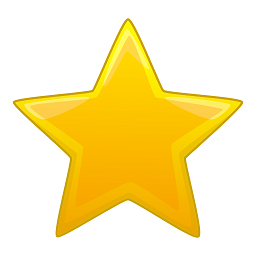
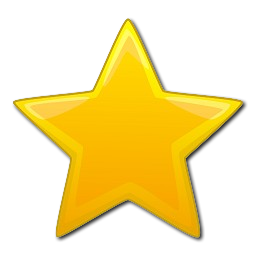
Correciones
Cambio imagen de fondo y medidas a rem. Modifico icono sin fondo

diff --git a/index.html b/index.html
@@ -12,7 +12,7 @@
                                   <!--Logo y Titulo-->
     <header class="estado">
         <div class="logo">
-                <img src="/assets/img.jpg/logo.div.png" width=200px height=auto alt="alusion de marca">
+                <img src="/assets/img.jpg/logo.div.png" width="200rem" height=auto alt="alusion de marca">
         </div>
                                   <!--menu-->
             <nav>
@@ -36,29 +36,29 @@
                         <li><a href="">Transferencia Modalidad Directa</a></li>
                         <p>Para esta transación el solicitante (la persona) debe contar con una cuenta bancaria en la entidad financiera (Banco), de modo que este se encargue de la solicitud utilizando la plataforma Divisas para su gestión hacia el Banco escogido como destino. A su vez, el beneficiario (quien recibe) debe poseer una cuenta bancaria a la cual dirigir los fondos destinados.</p><br>
                         <p>Si desea realizar <strong>esta</strong> solicitud: <button><a href="/html/registro.html">Inicie Sesión</button></a></p>
-                        <img class="first" src="/assets/iconos.png/banco a banco.png" width="100px" height="auto" alt=""> <p class="disco"><strong> Costo de la operación: 6% del monto enviado.</strong></p>
+                        <img class="first" src="/assets/iconos.png/banco a banco.png" width="6.25rem" height="auto" alt=""> <p class="disco"><strong> Costo de la operación: 6% del monto enviado.</strong></p>
                     </div>
                         <div class="metodo2">
                         <li><a href="">Trasferencia Modalidad Indirecta</a></li>
                         <p>Es aquella modalidad en la que el destinatario posee una cuenta bancaria en alguna institución financiera, de modo que este procesa la solicitud a través de la plataforma Divisas hacia un Banco escogido en el que el beneficiario (quien recibe) NO posee cuenta bancaria. Para este caso se procesará una Cuenta Express creada para el momento de la transación, ante la cual dicho beneficiario debe presentar documentación, código de la Cuenta Express, correo enviado por el Banco y presentarse a la hora y día pactado para efectuarla. </p>
                         <p>Si desea realizar <strong>esta</strong> solicitud: <button><a href="/html/registro.html">Inicie Sesión</button></a></p>
-                        <img class="first" src="/assets/iconos.png/mod. indirecta.png" width="100px" height="auto" alt=""><p class="disco"><strong>Costo de la operación: 7% del monto enviado.</strong></p>
+                        <img class="first" src="/assets/iconos.png/mod. indirecta.png" width="6.25rem" height="auto" alt=""><p class="disco"><strong>Costo de la operación: 7% del monto enviado.</strong></p>
                         </div>
                         <div class="metodo3">
                             <li><a href="">Transferencia Modalidad Solicitante Directa</a></li>
                             <p>Es aplicable para aquellos casos en el que el solicitante (quien envía) no posee cuenta bancaria y el beneficiario (quien recibe) si. Para lo cual la entidad Bancaria escogida realizará la solicitud a través de nuestra plataforma Divisas con la entidad a la que está vinculada el beneficiario. </p>
                             <p>Si desa realizar <strong>esta</strong> solicitud: <button><a href="/html/registro.html">Inicie Sesión</button></a></p>
-                            <img class="first" src="/assets/iconos.png/mod. directa.png" width="100px" height="auto" alt=""><p class="disco"><strong>Costo de la operación: 7% del monto enviado.</strong></p>
+                            <img class="first" src="/assets/iconos.png/mod. directa.png" width="6.25rem" height="auto" alt=""><p class="disco"><strong>Costo de la operación: 7% del monto enviado.</strong></p>
                         </div>
                             <div class="metodo4">
                                 <li><a href="">Transferencia Modalidad Solicitante Indirecta</a></li>
                                 <p>El caso de esta modalidad es aplicable cuando los dos relacionados (quien envía y quien recibe) no poseen cuenta bancaria. Por lo cual el Banco escogido procesará la transación a través de la plataforma Divisas hacia el Banco que mejor convenga para el destinatario, todo esto por medio de una Cuenta Express en la que ambos recibiran información sobre el código de la Cuenta Express, correo electrónico de parte del banco y los datos sobre la hora y el día en el que se debe acudir al banco para su retiro. </p>
                                 <p>Si desea realizar <strong>esta</strong> solicitud: <button><a href="/html/registro.html">Inicie Sesión</button></a></p>
-                                <img class="first" src="/assets/iconos.png/solic. indirecta.png" width="100px" height="auto" alt=""><p class="disco"><strong>Costo de la operación 10% del monto enviado.</strong></p>
+                                <img class="first" src="/assets/iconos.png/solic. indirecta.png" width="6.25rem" height="auto" alt=""><p class="disco"><strong>Costo de la operación 10% del monto enviado.</strong></p>
                             </div>
                     </ul>
                         <div class="ventana" id="vent">
-                            <div id="cerrart"> <a href="javascript:cerrart()"><img src="/assets/iconos.png/marca-x.png" width="20px" height="auto" alt=""></a></div>
+                            <div id="cerrart"> <a href="javascript:cerrart()"><img src="/assets/iconos.png/marca-x.png" width="20rem" height="auto" alt=""></a></div>
                         </div>
                 </div>
             </section>
@@ -70,29 +70,29 @@
                         <li><a href="">Depósito Modalidad Mutua</a></li>
                         <p>Esta modalidad abarca el caso en el que ambas personas (quien envía y quien recibe) NO poseen cuenta bancaria, para lo cual se procederá a crear una Cuenta Express (expirable) cuyos datos como lo son el código de cuenta, correo enviado por el banco y datos del día y hora de vigencia les serán suministardos a ambas personas. En el caso de quien recibe debe presentar documentación que lo acredite como Beneficiario.</p>
                         <p>Si desea realizar <strong>esta</strong> solicitud: <button><a href="/html/registro.html">Inicie Sesión</button></a></p>
-                        <img class="second" src="/assets/iconos.png/dep. mutuo.png" width="100px" height="auto" alt=""><p class="disco"><strong>Costo de la operación: 10% del monto enviado.</strong></p>
+                        <img class="second" src="/assets/iconos.png/dep. mutuo.png" width="6.25rem" height="auto" alt=""><p class="disco"><strong>Costo de la operación: 10% del monto enviado.</strong></p>
                     </div>
                     <div class="opcion2">
                         <li><a href="">Depósito Modalidad Sincronizada</a></li>
                         <p>Caso en el cual el destinatario (quien envía) NO poseecuenta bancaria pero, el beneficiario (quien recibe) SI. Para ello el Banco procesará la solicitud a través de la plataforma Divisas hacia la entidad bancaria en la que el detinatario posee cuenta. </p>
                         <p>Si desea realizar <strong>esta</strong>solicitud: <button><a href="">Inicie Sesión</button></a></p>
-                        <img class="second" src="/assets/iconos.png/dep. sincr.png" width="100px" height="auto" alt=""><p class="disco"><strong>Costo de la operación: 6% del monto enviado.</strong></p>
+                        <img class="second" src="/assets/iconos.png/dep. sincr.png" width="6.25rem" height="auto" alt=""><p class="disco"><strong>Costo de la operación: 6% del monto enviado.</strong></p>
                     </div>
                    <div class="opcion3">
                         <li><a href="">Depósito Modalidad Atípica</a></li>
                         <p>Sucede en el caso donde el destinatario (quien envía) posee cuenta bancaria pero, el beneficiario (quien recibe) NO. De modo que el Banco realiza la solicitud a través de la plataforma Divisas. Como en este caso el beneficiario no posee cuenta bancaria, se procederáa crear una Cuenta Express, la cual sólo tendrá vigencia para el momento de entrega, y en el caso del beneficiario debe presentar la documentación que lo acredite como tal además de el correo electónico enviado por el banco y asistir a la hora y día pactado. </p>
                         <p>Si desea realizar <strong>esta</strong> solicitud: <button><a href="/html/registro.html">Inicie Sesión</button></a></p>
-                    <img class="second" src="/assets/iconos.png/mod. atipica.png" width="100px" height="auto" alt=""><p class="disco"><strong>Costo de la operación: 7% del monto enviado.</strong></p>
+                    <img class="second" src="/assets/iconos.png/mod. atipica.png" width="6.25rem" height="auto" alt=""><p class="disco"><strong>Costo de la operación: 7% del monto enviado.</strong></p>
                    </div>
                    <div class="opcion4">
                         <li><a href="">Depósito Modalidad Típica</a></li>
                         <p>La modalidad típica es aquella en la cual ambas personas (destinatarioy beneficiario) poseen cuenta bancaria. De modo que el Banco a través de la plataforma Divisas procesará la transación.</p>
                         <p>Si desea realizar <strong>esta</strong> solicitud: <button><a href="/html/registro.html">Inicie Sesión</button></a></p>
-                    <img class="second" src="/assets/iconos.png/mod. tipica.png" width="100px" height="auto" alt=""><p><strong> Costo de la operación: 6% del monto enviado.</strong></p>
+                    <img class="second" src="/assets/iconos.png/mod. tipica.png" width="6.25rem" height="auto" alt=""><p><strong> Costo de la operación: 6% del monto enviado.</strong></p>
                    </div>  
                 </ul>
                     <div class="venta" id="ventd"> 
-                        <div id="cerrard"> <a href="javascript:cerrard()"><img src="/assets/iconos.png/marca-x.png" width="20px" height="auto" alt=""></a></div>
+                        <div id="cerrard"> <a href="javascript:cerrard()"><img src="/assets/iconos.png/marca-x.png" width="20rem" height="auto" alt=""></a></div>
                     </div>
             </div>
         </section>
@@ -104,11 +104,11 @@
                         <li><a href="">Modalidad Única</a></li>
                         <p>Esta modalidad facilita el procesamiento del envío de dinero a través de la debitación de la tarjeta de crédito. Proceso que se realiza en las instalaciones del Banco y que permite canalizar dicho envío por medio de una Cuenta Express hacia el destinatario. Este debe presentar la documentación requerida (Documento de Identidad, pasaporte y/o cualquier otro), el correo por parte del Banco y asistir a la hora y día pactado para la entrega. </p>
                         <p>Si desea realizar <strong>esta</strong> solicitud: <button><a href="/html/registro.html">Inicie Sesión</button></a></p>
-                        <img class="third" src="/assets/iconos.png/tarjetas.png" width="100px" height="auto" alt=""><p class="disco"><strong>Costo de la operación: 6% del monto enviado.</strong></p>
+                        <img class="third" src="/assets/iconos.png/tarjetas.png" width="6.25rem" height="auto" alt=""><p class="disco"><strong>Costo de la operación: 6% del monto enviado.</strong></p>
                     </div>
                 </ul>    
                     <div class="ventan" id="ventar">
-                        <div id="cerrartar"> <a href="javascript:cerrartar()"><img src="/assets/iconos.png/marca-x.png" width="20px" height="auto" alt=""></a></div>
+                        <div id="cerrartar"> <a href="javascript:cerrartar()"><img src="/assets/iconos.png/marca-x.png" width="20rem" height="auto" alt=""></a></div>
                     </div>
             </div>
            </aside>
@@ -173,14 +173,14 @@
                 </div> 
                     <div class="componente">
                         <div class="integrado1"><p><strong>Origen de los fondos o prueba de su riqueza:</strong> Datos acerca de ocupación actual, antigüedad, nombre de la empresa.</p>
-                        <img src="/assets/iconos.png/procedencia.png" width="100px" height="auto" alt=""></div>
+                        <img src="/assets/iconos.png/procedencia.png" width="80rem" height="auto" alt=""></div>
                         <div class="integrado2"><p><strong>Información sobre destinatario:</strong> Datos sobre su identidad, domicilio, parentesco.</p>
-                        <img src="/assets/iconos.png/destinatario.png" width="100px" height="auto" alt=""></div>
+                        <img src="/assets/iconos.png/destinatario.png" width="80rem" height="auto" alt=""></div>
                         <div class="integrado3"><p><strong>Motivo de la consignación:</strong> Situación de salud, estudios, emergencia, desastre natural, accidente, defunción, compra de productos o bienes, viajes, papeleo (registros, divorcio, matrimonio,  hipotecas).</p>
-                        <img src="/assets/iconos.png/mujer-embarazada.png" width="100px" height="auto" alt="">
-                        <img src="/assets/iconos.png/hipotecas.png" width="100px" height="auto" alt=""></div>
+                        <img src="/assets/iconos.png/mujer-embarazada.png" width="80rem" height="auto" alt="">
+                        <img src="/assets/iconos.png/hipotecas.png" width="80rem" height="auto" alt=""></div>
                         <div class="integrado4"><p><strong>Límite para las transferencias:</strong> Aval de sus ingresos si la suma supera los 1500,00$ mensuales.</p>
-                        <img src="/assets/iconos.png/senal-de-stop.png" width="100px" height="auto" alt=""></div>
+                        <img src="/assets/iconos.png/senal-de-stop.png" width="80rem" height="auto" alt=""></div>
                     </div>
          
                     <div class="subtitulo-m2">
@@ -198,54 +198,58 @@
        
     <section class="patrocinadores">
         <h2>Bancos  y Aliados</h2>
-        <img class="tipos" src="/assets/img.jpg/banesco.jpg" width="80px" height="80px" alt="logo de banesco">
-        <img class="tipos" src="/assets/img.jpg/bancolombia.jpg" width="80px" height="80px" alt="logo de bancolombia">
-        <img class="tipos" src="/assets/img.jpg/bbva.jpg" width="80px" height="80px" alt="logo de bbva">
-        <img class="tipos" src="/assets/img.jpg/citygroup.jpg" width="80px" height="80px" alt="logo de citygroup">
-        <img class="tipos" src="/assets/img.jpg/scotiabank.jpg" width="80px" height="80px" alt="logo de scotiabank"><br> <br>
+        <img class="tipos" src="/assets/img.jpg/banesco.jpg" width="5rem" height="5rem" alt="logo de banesco">
+        <img class="tipos" src="/assets/img.jpg/bancolombia.jpg" width="5rem" height="5rem" alt="logo de bancolombia">
+        <img class="tipos" src="/assets/img.jpg/bbva.jpg" width="5rem" height="5rem" alt="logo de bbva">
+        <img class="tipos" src="/assets/img.jpg/citygroup.jpg" width="5rem" height="5rem" alt="logo de citygroup">
+        <img class="tipos" src="/assets/img.jpg/scotiabank.jpg" width="5rem" height="5rem" alt="logo de scotiabank"><br> <br>
         <p><h2>Empresas Aliadas</h2></p>
-        <img  class="tipos" src="/assets/img.jpg/american.jpg" width="90px" height="90px" alt="representacion de American Express">
-        <img  class="tipos" src="/assets/img.jpg/masterc.jpg" width="90px" height="90px" alt="representacion de mastercard">
-        <img  class="tipos" src="/assets/img.jpg/n.visa.jpg" width="90px" height="90px" alt="representacion de visa">
+        <img  class="tipos" src="/assets/img.jpg/american.jpg" width="5.625rem
+        " height="5.625rem" alt="representacion de American Express">
+        <img  class="tipos" src="/assets/img.jpg/masterc.jpg" width="5.625rem" height="5.625rem" alt="representacion de mastercard">
+        <img  class="tipos" src="/assets/img.jpg/n.visa.jpg" width="5.625rem" height="5.625rem" alt="representacion de visa">
     </section>
     
         <section class="comentarios">
            <div class="letra">
             <h2>Reseña de clientes</h2>
-            <img src="/assets/img.jpg/siguenos.jpg" width="200px" height="auto" alt="">
+            <img src="/assets/img.jpg/siguenos.jpg" width="190rem" height="auto" alt="">
            </div> 
            <div class="agrego">
             <div class="reset">
-                <img src="/assets/iconos.png/estrella.png" width="30px" height="30px" alt="">
-                <img src="/assets/iconos.png/estrella.png" width="30px" height="30px" alt="">
-                <img src="/assets/iconos.png/estrella.png" width="30px" height="30px" alt="">
-                <img src="/assets/iconos.png/estrella.png" width="30px" height="30px" alt="">
-                <img src="/assets/iconos.png/estrella.png" width="30px" height="30px" alt="">
-                <strong>Paul Torrealba:</strong> Me genera mucha confianza el respaldo de las entidades que lo integran.
+                <p><strong>Paul Torrealba:</strong> Me genera mucha confianza el respaldo de las entidades que lo integran.</p>
+                <img src="/assets/iconos.png/estrella.png" width="30rem" height="30rem" alt="">
+                <img src="/assets/iconos.png/estrella.png" width="30rem" height="30rem" alt="">
+                <img src="/assets/iconos.png/estrella.png" width="30rem" height="30rem" alt="">
+                <img src="/assets/iconos.png/estrella.png" width="30rem" height="30rem" alt="">
+                <img src="/assets/iconos.png/estrella.png" width="30rem" height="30rem" alt="">
+                
             </div>
             <div class="reset">
-                <img src="/assets/iconos.png/estrella.png" width="30px" height="30px" alt="">
-                <img src="/assets/iconos.png/estrella.png" width="30px" height="30px" alt="">
-                <img src="/assets/iconos.png/estrella.png" width="30px" height="30px" alt="">
-                <img src="/assets/iconos.png/estrella.png" width="30px" height="30px" alt="">
-                <img src="/assets/iconos.png/estrella.png" width="30px" height="30px" alt="">
-                <strong>Enzo Dupont</strong>: Su amplia cobertura para realizar transaciones permite expandir mi negocio. ¡Excelente iniciativa!.
+                <p><strong>Enzo Dupont</strong>: Su amplia cobertura para realizar transaciones permite expandir mi negocio. ¡Excelente iniciativa!.</p>
+                <img src="/assets/iconos.png/estrella.png" width="30rem" height="30rem" alt="">
+                <img src="/assets/iconos.png/estrella.png" width="30rem" height="30rem" alt="">
+                <img src="/assets/iconos.png/estrella.png" width="30rem" height="30rem" alt="">
+                <img src="/assets/iconos.png/estrella.png" width="30rem" height="30rem" alt="">
+                <img src="/assets/iconos.png/estrella.png" width="30rem" height="30rem" alt="">
+                
             </div>
             <div class="reset">
-                <img src="/assets/iconos.png/estrella.png" width="30px" height="30px" alt="">
-                <img src="/assets/iconos.png/estrella.png" width="30px" height="30px" alt="">
-                <img src="/assets/iconos.png/estrella.png" width="30px" height="30px" alt="">
-                <img src="/assets/iconos.png/estrella.png" width="30px" height="30px" alt="">
-                <img src="/assets/iconos.png/estrella.png" width="30px" height="30px" alt="">
-               <strong> Claudia Cruz:</strong> Realizo consignaciones constantemente, por lo que su incentivo de mejorar las tasas para mis operaciones es fabuloso e ideal para mi.
+               <p><strong> Claudia Cruz:</strong> Realizo consignaciones constantemente, por lo que su incentivo de mejorar las tasas para mis operaciones es fabuloso e ideal para mi.</p>
+                <img src="/assets/iconos.png/estrella.png" width="30rem" height="30rem" alt="">
+                <img src="/assets/iconos.png/estrella.png" width="30rem" height="30rem" alt="">
+                <img src="/assets/iconos.png/estrella.png" width="30rem" height="30rem" alt="">
+                <img src="/assets/iconos.png/estrella.png" width="30rem" height="30rem" alt="">
+                <img src="/assets/iconos.png/estrella.png" width="30rem" height="30rem" alt="">
             </div>
             <div class="reset">
-                <img src="/assets/iconos.png/estrella.png" width="30px" height="30px" alt="">
-                <img src="/assets/iconos.png/estrella.png" width="30px" height="30px" alt="">
-                <img src="/assets/iconos.png/estrella.png" width="30px" height="30px" alt="">
-                <img src="/assets/iconos.png/estrella.png" width="30px" height="30px" alt="">
-                <img src="/assets/iconos.png/estrella.png" width="30px" height="30px" alt="">
-                <strong>Gianni Soracci:</strong> Me ahorra mucho trabajola "programación de envíos", además me permite coodinar mis gastos del mes.
+                <p><strong>Gianni Soracci:</strong> Me ahorra mucho trabajola "programación de envíos", además me permite coodinar mis gastos del mes.</p>
+                <img src="/assets/iconos.png/estrella.png" width="30rem" height="30rem" alt="">
+                <img src="/assets/iconos.png/estrella.png" width="30rem" height="30rem" alt="">
+                <img src="/assets/iconos.png/estrella.png" width="30rem" height="30rem" alt="">
+                <img src="/assets/iconos.png/estrella.png" width="30rem" height="30rem" alt="">
+                <img src="/assets/iconos.png/estrella.png" width="30rem" height="30rem" alt="">
+               
             </div>
            </div>
                

diff --git a/html/saludo.html b/html/saludo.html
@@ -17,26 +17,28 @@
             if (nombreUsuario){
                 document.getElementById("saludo").innerHTML= `Bienvenido(a) a Divisas: ${nombreUsuario}. La plataforma creada para solucionar tus operaciones.`;
             } else{
-                document.getElementById("saludo").textContent = "Bienvenido";
+                document.getElementById("saludo").textContent = "Bienvenido(a) a Divisas. La plataforma creada para solucionar tus operaciones.";
             }
         </script>
     </header>
     <main>
         <section class="local">
-            <img src="/assets/img.jpg/calculando envio.jpg" width="200px" height="auto" alt="">
-            <img src="/assets/img.jpg/bienvenido.jpg" width="200px" height="auto" alt="">
-            <img src="/assets/img.jpg/deduccion de impuestos.jpg" width="200px" height="auto" alt="">
-            <img src="/assets/img.jpg/enviando.jpg" width="200px" height="auto" alt="">
-            <img src="/assets/img.jpg/hombre con tarjeta.jpg" width="200px" height="auto" alt="">
-            <img src="/assets/img.jpg/gracias.jpg" width="200px" height="auto" alt="">
-            <img src="/assets/img.jpg/enviando x pc.jpg" width="200px" height="auto" alt="">
-            <img src="/assets/img.jpg/soporte.jpg" width="200px" height="auto" alt="">
-            <img src="/assets/img.jpg/quienes somos.jpg" width="200px" height="auto" alt="">
-            <img src="/assets/img.jpg/libertad financiera.jpg" alt="">
+            <img src="/assets/img.jpg/calculando envio.jpg" width="210rem" height="200rem" alt="">
+            <img src="/assets/img.jpg/bienvenido.jpg" width="270rem" height="240rem" alt="">
+            <img src="/assets/img.jpg/deduccion de impuestos.jpg" width="300rem" height="auto" alt="">
+            <img src="/assets/img.jpg/enviando.jpg" width="190rem" height="auto" alt="">
+            <img src="/assets/img.jpg/hombre con tarjeta.jpg" width="250rem" height="250rem" alt="">
+            <img src="/assets/img.jpg/gracias.jpg" width="auto" height="auto" alt="">
+            <img src="/assets/img.jpg/enviando x pc.jpg" width="280rem"  height="auto" alt="">
+            <img src="/assets/img.jpg/soporte.jpg" width="auto" height="auto" alt="">
+            <img src="/assets/img.jpg/quienes somos.jpg" width="190rem" height="190rem" alt="">
+            <img src="/assets/img.jpg/libertad financiera.jpg" width="rem" height="auto" alt="">
         </section>
         <aside>
-            <div>
+            <div class="partir">
+            <form action="">
 
+            </form>
             </div>
         </aside>
 

diff --git a/html/registro.html b/html/registro.html
@@ -21,17 +21,17 @@
                         <input type="email" id="email" placeholder=" Ingresa correo" required><br>
                         <label for="contra">Contraseña:</label>
                         <input type="password" id="contra" placeholder=" Ingresa contraseña" required>
-            <ul class="opcion"><br>
-                <label id="sexo">Género:</label required>
-                    <li class="derivado">
-                        <label for="masculino">Masculino</label>
-                        <input type="radio" name="sexo" value="masculino" id="masculino" >
-                        <label for="femenino">Femenino</label>
-                        <input type="radio" name="sexo" value="femenino" id="femenino">
-                        <label for="otro">Otro</label>
-                         <input type="radio" name="sexo" value="otro" id="otro">
-                    </li>
-            </ul>
+                            <ul class="opcion"><br>
+                                <label id="sexo">Género:</label required>
+                                    <li class="derivado">
+                                        <label for="masculino">Masculino</label>
+                                        <input type="radio" name="sexo" value="masculino" id="masculino" >
+                                        <label for="femenino">Femenino</label>
+                                        <input type="radio" name="sexo" value="femenino" id="femenino">
+                                        <label for="otro">Otro</label>
+                                        <input type="radio" name="sexo" value="otro" id="otro">
+                                    </li>
+                            </ul>
                         <label for="fecha">Fecha de Nacimiento</label required>
                         <input type="date" id="fecha"><br>
                         <label for="documento">Documento</label>

diff --git a/css/ventanas.css b/css/ventanas.css
@@ -7,7 +7,7 @@ section.estado {
 .contenido1 {
     background: white;
     border-radius: 0.625rem;
-    height: 77rem;
+    height: 53rem;
     width: 50.5rem;
     position: relative;
     display: none;
@@ -19,7 +19,7 @@ section.estado {
 
 .pop {
     background: white;
-    height: 74rem;
+    height: 53rem;
     width: 40.5rem;
     position: relative;
     display: none;
@@ -32,7 +32,7 @@ section.estado {
 
 .remix {
     background: white;
-    height: 22rem;
+    height: 16rem;
     width: 35rem;
     position: relative;
     display: none;
@@ -82,14 +82,18 @@ p.disco {
 
 .contenido1 {
     background: blue;
+    align-items: center;
+    justify-content: center;
 }
 
 .pop {
     background: blue;
+    margin-left: 17.5rem;
 }
 
 .remix {
     background: blue;
+    margin-left: 10.625rem;
 }
 
 .metodo1 {

diff --git a/css/body1.css b/css/body1.css
@@ -1,17 +1,20 @@
 .titulacion {
     height: 26.25rem;
-    background-image: url(/assets/img.jpg/fondo.jpg);
+    background-image: url(/assets/img.jpg/fondo\ ppal.jpg);
     background-size: cover;
+    justify-content: center;
+    align-items: center;
 }
 
 .titulacion h1 {
-    margin-left: 30.25rem;
     padding-top: 3.125rem;
     color: white;
     font-family: 'Times New Roman', Times, serif;
     text-shadow: .125rem .125rem .125rem black;
     font-size: 3.125rem;
     display: flex;
+    justify-content: center;
+    align-items: center;
 }
 
 .subtitulo {

diff --git a/css/saludo.css b/css/saludo.css
@@ -13,5 +13,18 @@ header {
 
 main {
     display: grid;
-    grid-template-areas: ;
+    grid-template-areas: 'header'
+                        '.local .partir';
+}
+
+header {
+    grid-area: header;
+}
+
+.local {
+    grid-area: local;
+}
+
+.partir {
+    grid-area: partir;
 }

diff --git a/css/body3.css b/css/body3.css
@@ -48,9 +48,14 @@ img.tipos {
 
 .reset {
     height: 3.75rem;
-    text-align: center;
+    text-align: end;
     padding: .5rem .625rem .313rem .5rem;
     background: burlywood;
+}
+
+.reset p {
+    text-align: justify
+
 }
 
 .letra h2 {
